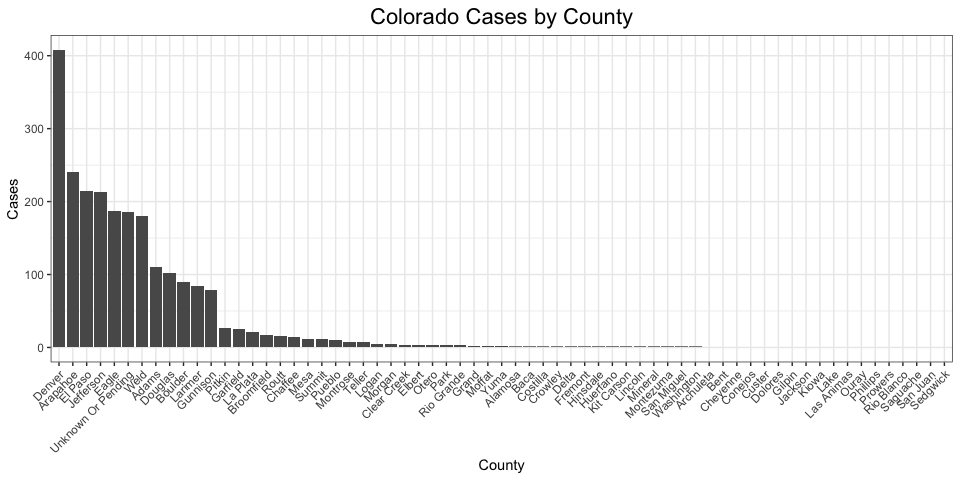
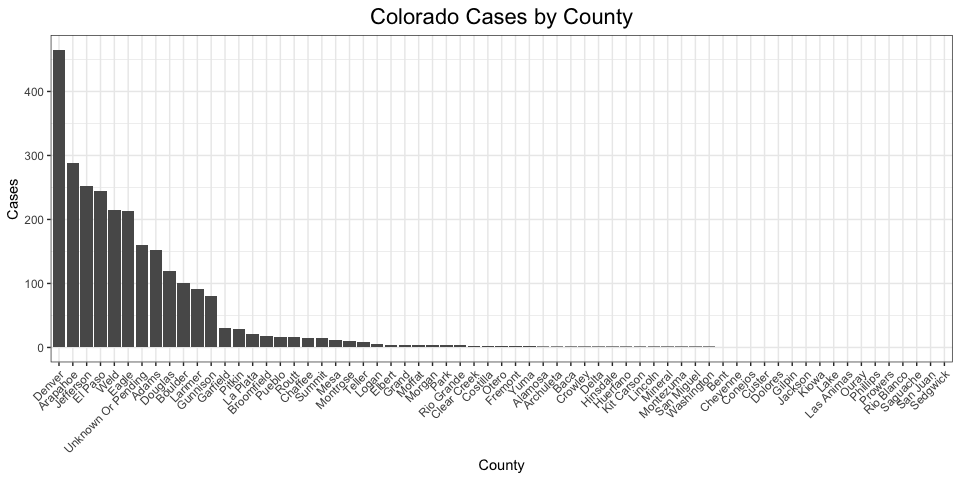
Update to March 30 2020

diff --git a/README.md b/README.md
@@ -3,14 +3,14 @@
 
 # Outbreak Summary
 
-### March 28, 2020
+### March 29, 2020
 
-![cases](https://img.shields.io/badge/Cases-2307-success.svg?style=flat-square&logo=appveyor)
-![tested](https://img.shields.io/badge/People_Tested-14470-success.svg?style=flat-square&logo=appveyor)
-![pct\_pos](https://img.shields.io/badge/Case_Rate-15.9%25-success.svg?style=flat-square&logo=appveyor)
-![deaths](https://img.shields.io/badge/Deaths-47-success.svg?style=flat-square&logo=appveyor)
-![counties](https://img.shields.io/badge/Counties-47-success.svg?style=flat-square&logo=appveyor)
-![hospitalization](https://img.shields.io/badge/Hospitalizations-326-success.svg?style=flat-square&logo=appveyor)
+![cases](https://img.shields.io/badge/Cases-2627-success.svg?style=flat-square&logo=appveyor)
+![tested](https://img.shields.io/badge/People_Tested-15364-success.svg?style=flat-square&logo=appveyor)
+![pct\_pos](https://img.shields.io/badge/Case_Rate-17.1%25-success.svg?style=flat-square&logo=appveyor)
+![deaths](https://img.shields.io/badge/Deaths-51-success.svg?style=flat-square&logo=appveyor)
+![counties](https://img.shields.io/badge/Counties-48-success.svg?style=flat-square&logo=appveyor)
+![hospitalization](https://img.shields.io/badge/Hospitalizations-414-success.svg?style=flat-square&logo=appveyor)
 
 ### [stufield.github.io/COVID-19](https://stufield.github.io/COVID-19)
 
@@ -31,9 +31,9 @@ more information and raw case data.
 
 | Sex     | Percent |
 | :------ | :------ |
-| Female  | 52.06%  |
-| Male    | 47.42%  |
-| Unknown | 0.52%   |
+| Female  | 51.69%  |
+| Male    | 47.85%  |
+| Unknown | 0.46%   |
 
 ## Cases by Age
 
